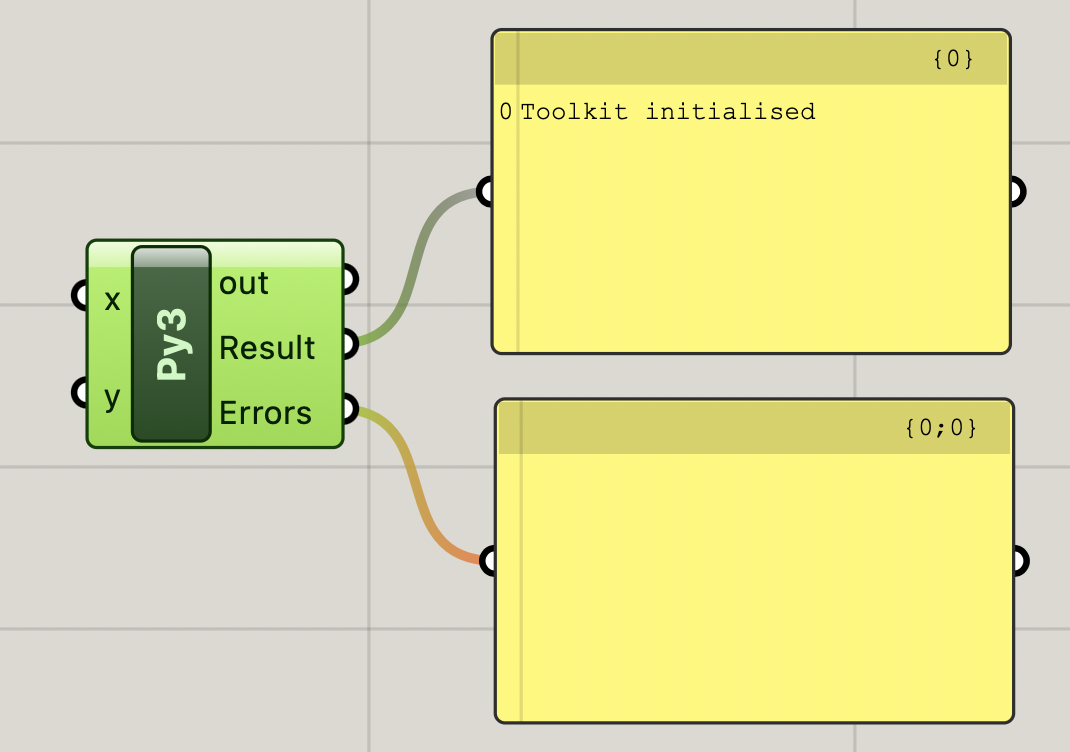
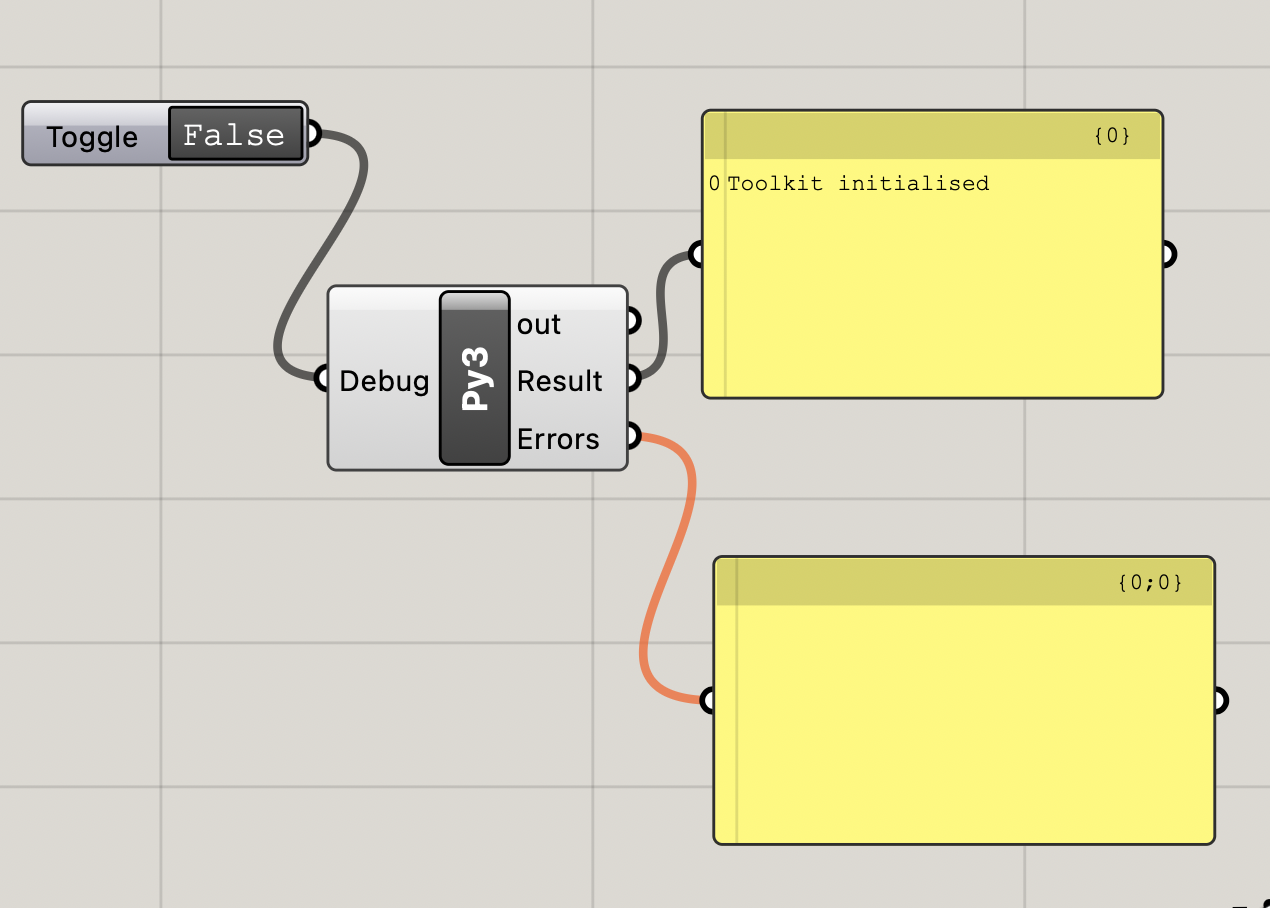
Added debugger toggle to Python components in gh files

diff --git a/shared/loader.py b/shared/loader.py
@@ -1,9 +1,7 @@
-import os
-import sys
 import traceback
 
 
-def run_tool(fn):
+def run_tool(fn, debug=False):
     """
     Standard runner for GH tools.
 
@@ -14,8 +12,10 @@ def run_tool(fn):
     try:
         return fn(), []
 
-    except Exception:
-        return None, [
-            "TOOL: An error occurred while running the tool.",
-            traceback.format_exc()
-        ]
+    except Exception as e:
+        msg = f"TOOL ERROR: {e}\n\n"
+
+        if debug:
+            return None, [msg, traceback.format_exc()]
+        else:
+            return None, [msg]
